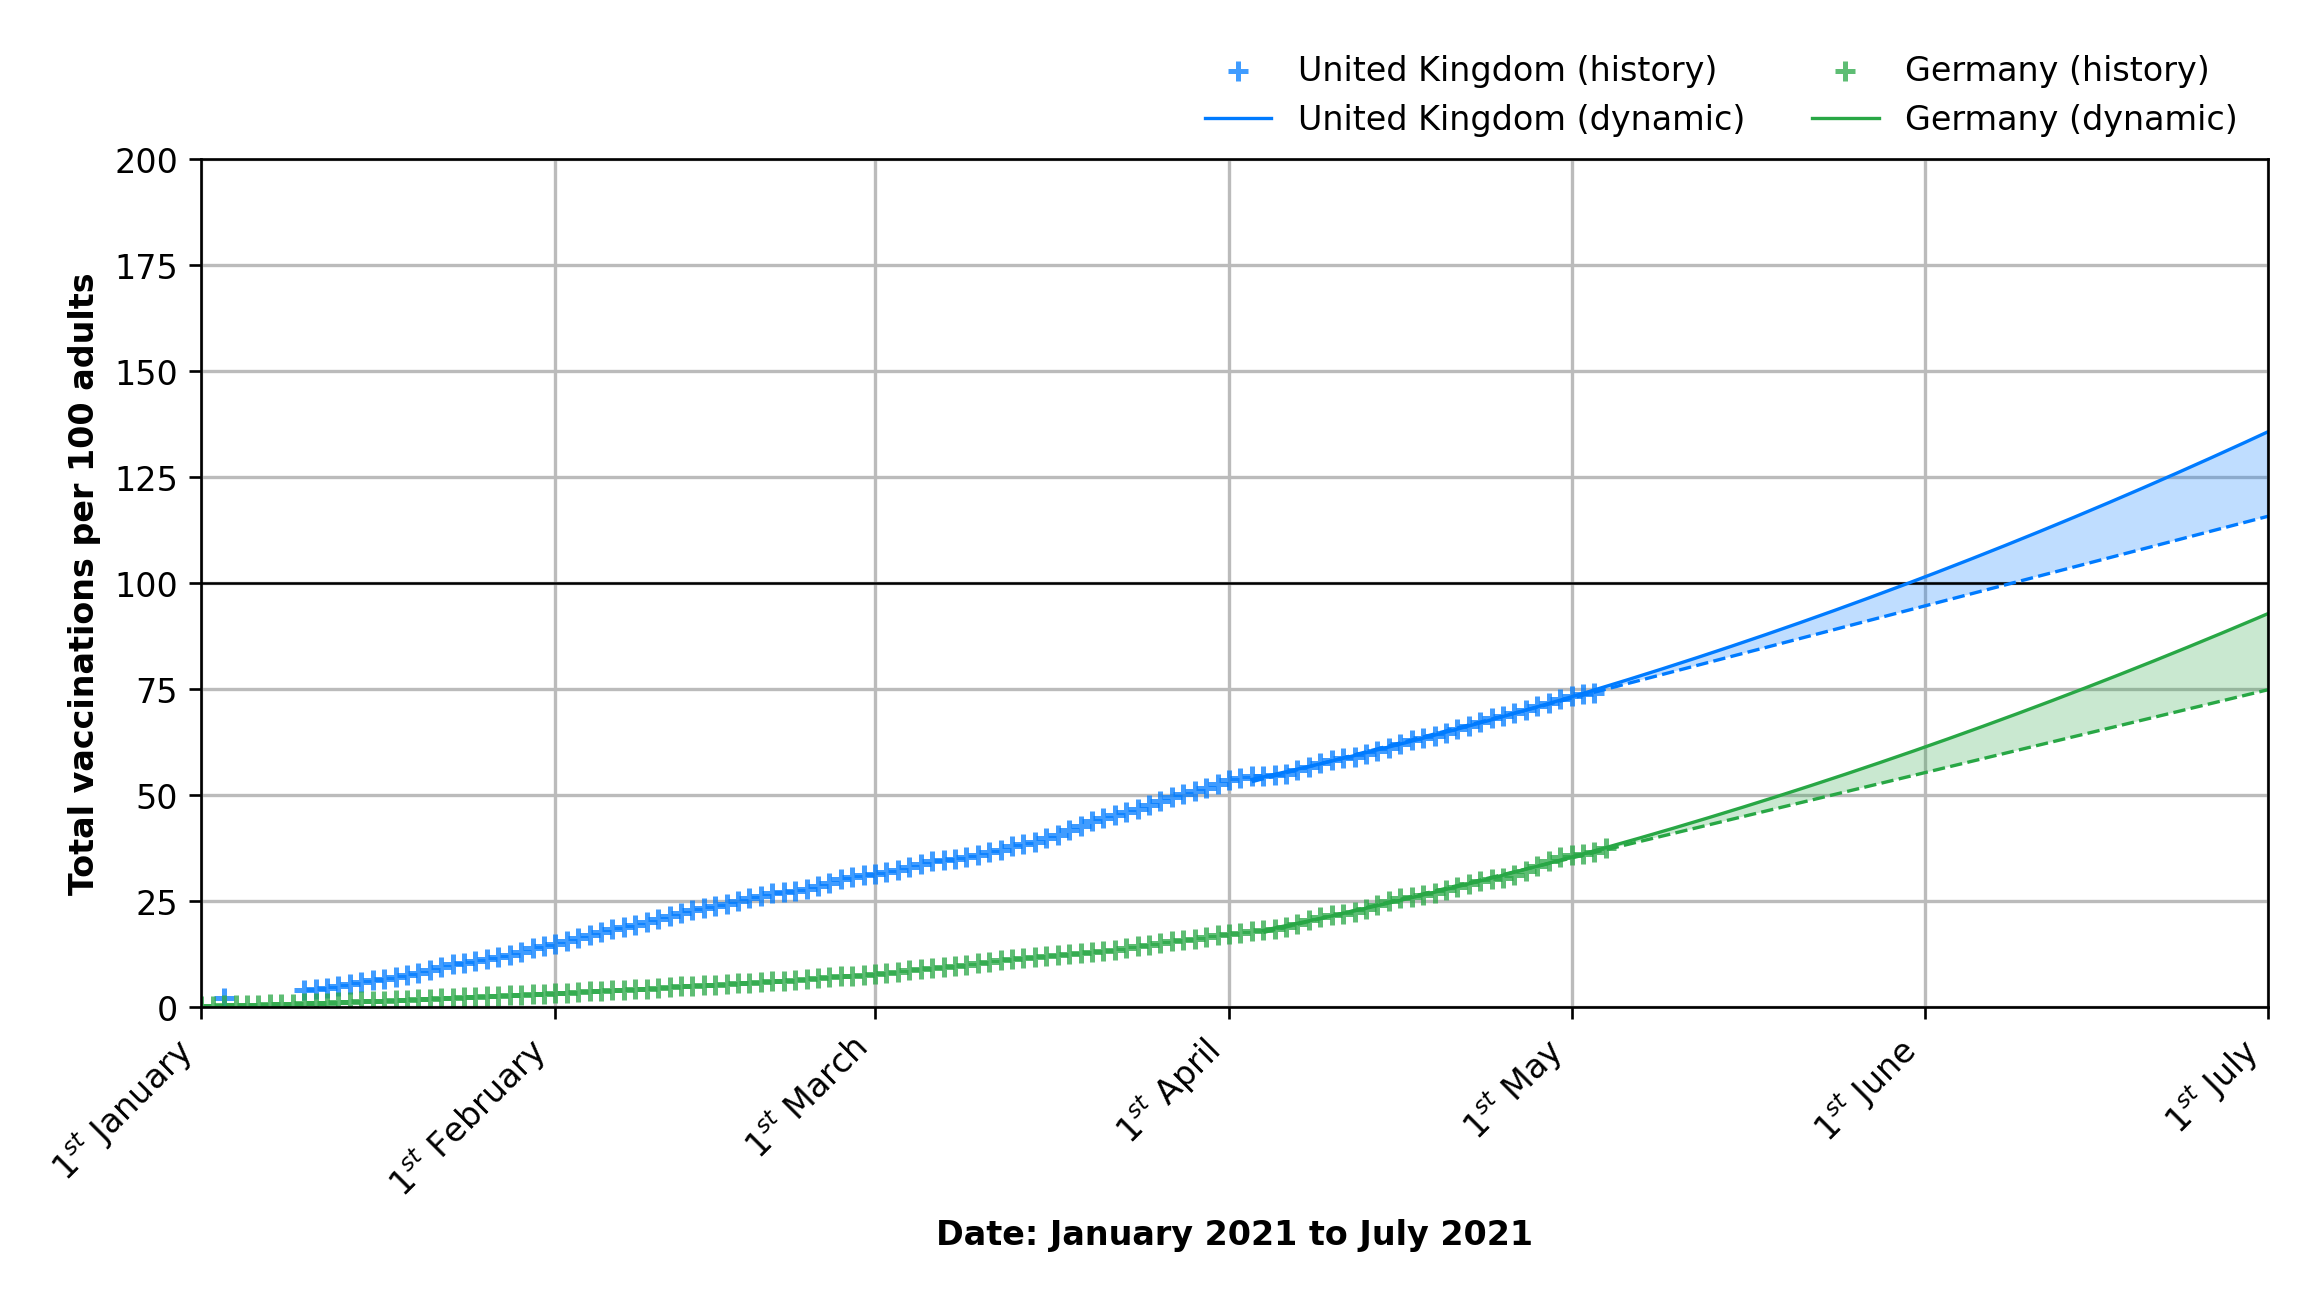
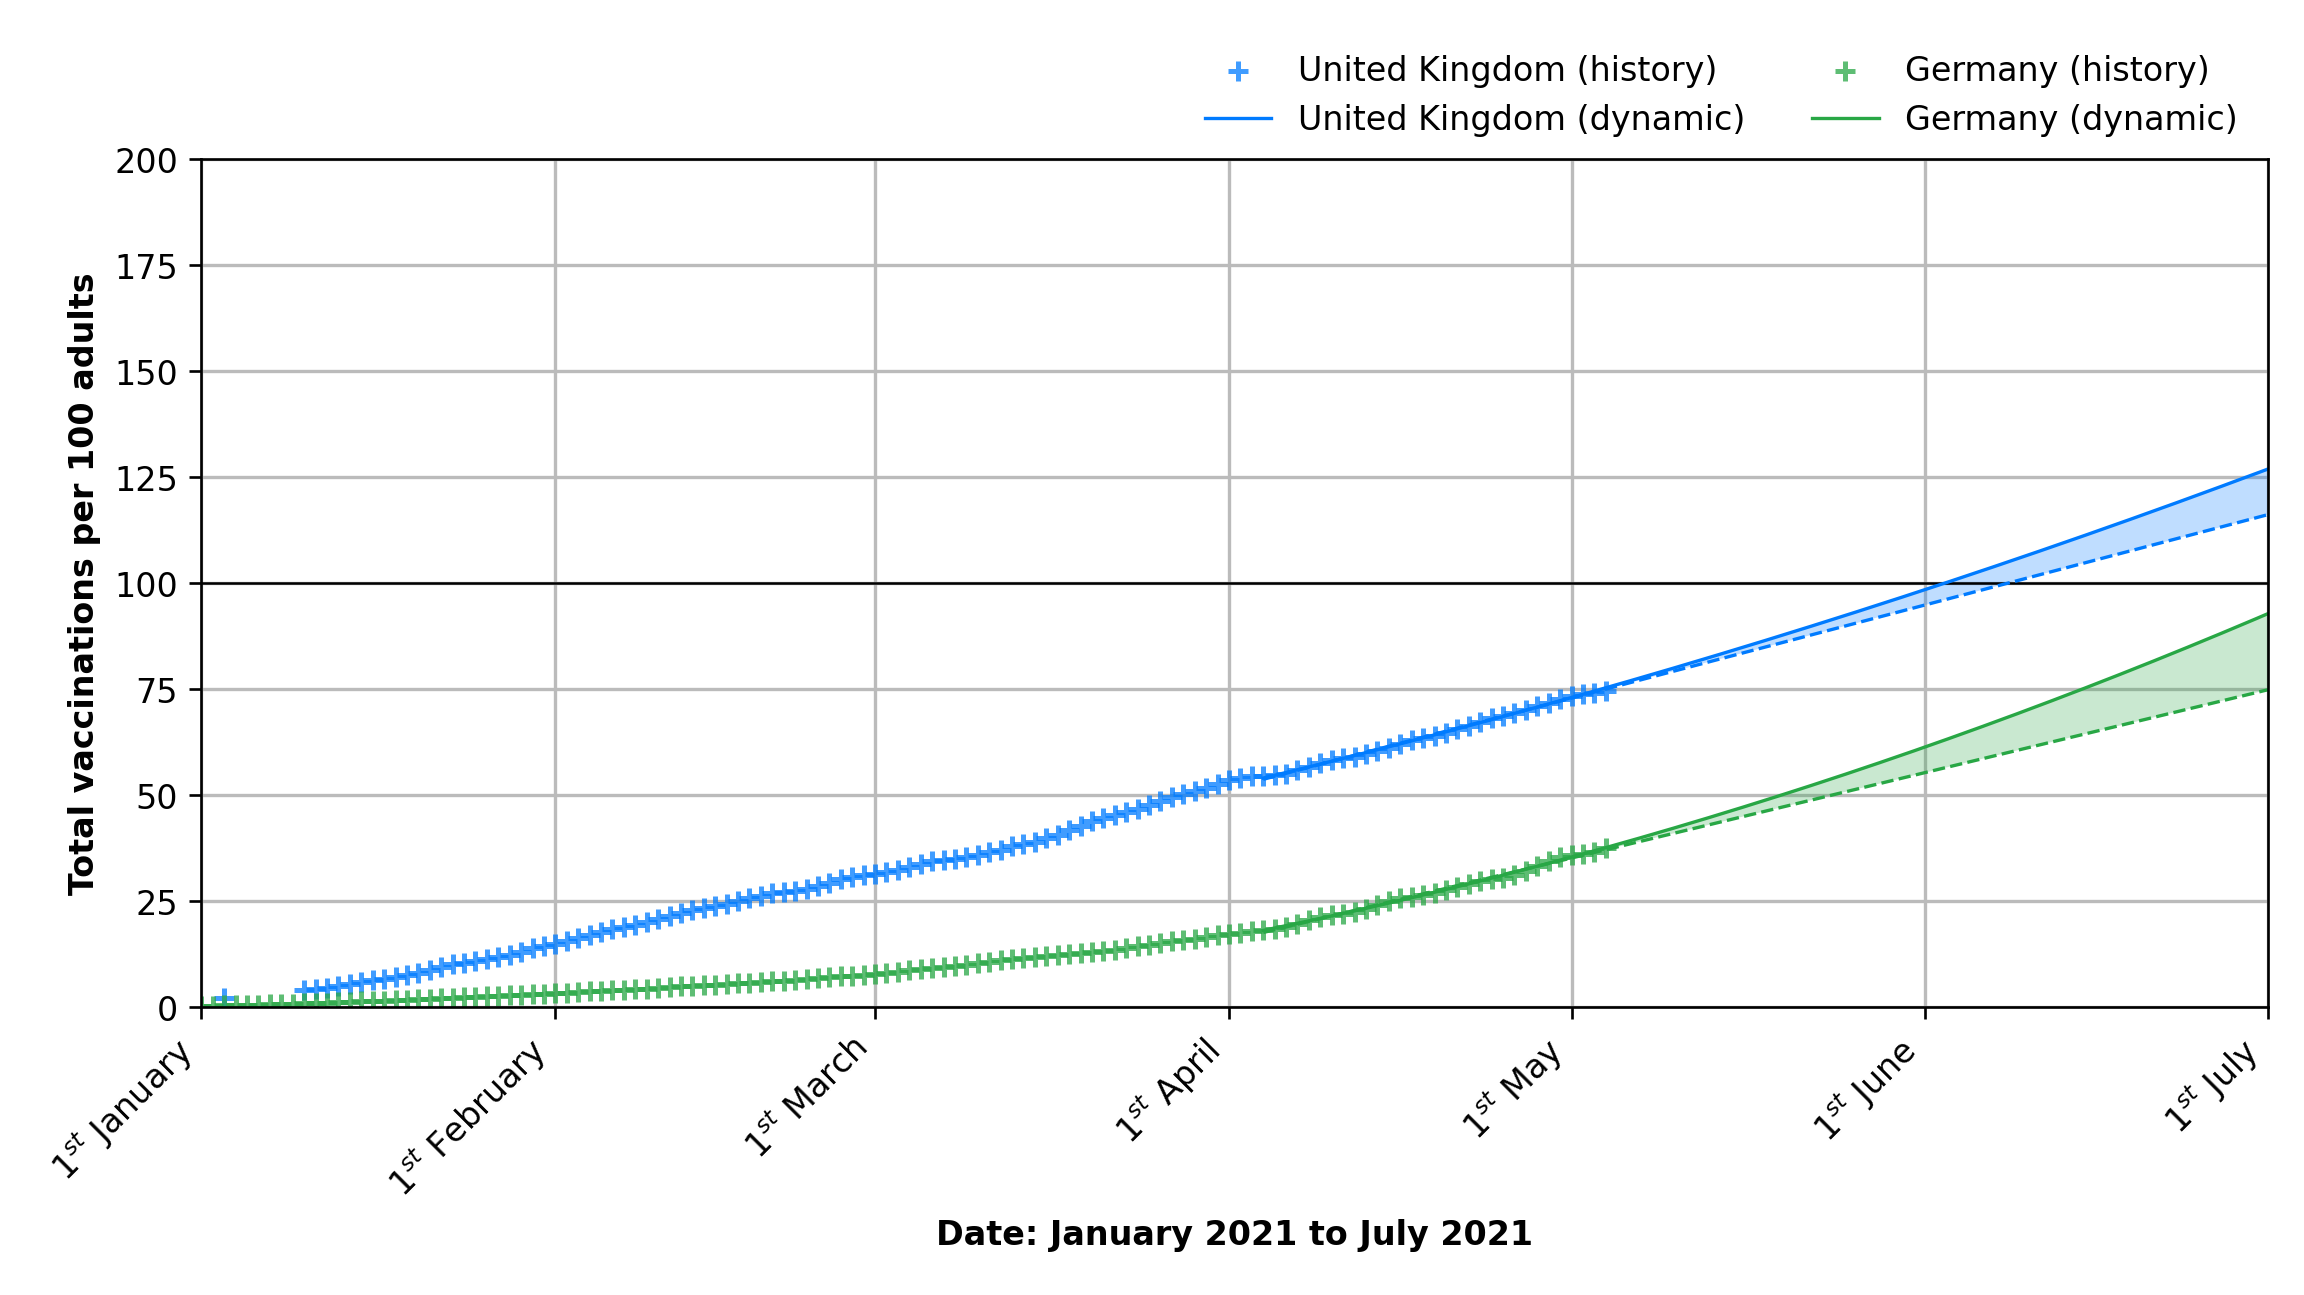
Deploying to gh-pages from @ lambdapioneer/vactrend@0b151e50bae144ff27c39ffb07cd62d871ed93a9 🚀

Changed region(s): [[0.7188, 0.3398, 1.0, 0.5251], [0.6875, 0.5251, 0.7188, 0.556]]

diff --git a/index.html b/index.html
@@ -23,7 +23,7 @@
                     The linear case assumes that the rate of vaccination remains the same.
                 </p>
                 <p class="text-muted">The data is sourced from the <a href="https://ourworldindata.org/">Our World in
-                        Data</a> project. Last update: 05 May 2021.</p>
+                        Data</a> project. Last update: 06 May 2021.</p>
             </div>
         </div>
         <a href="vactrend.png">
@@ -37,13 +37,13 @@
                 <div class="card">
                     <div class="card-header">🇬🇧 United Kingdom</div>
                     <div class="card-body">
-                        <h3 class="font-weight-bold" style="color: #007bff">74.09 <small>(+0.31/d)</small></h3>
+                        <h3 class="font-weight-bold" style="color: #007bff">74.66 <small>(+0.57/d)</small></h3>
                         <p class="mt-n2">Vaccinations per 100 adults</p>
-                        <h3 class=" font-weight-bold">31 May 2021</h3>
+                        <h3 class=" font-weight-bold">03 June 2021</h3>
                         <p class="mt-n2">Earliest day: 100 vacc. per 100 adults</p>
-                        <h3 class=" font-weight-bold">16 August 2021</h3>
+                        <h3 class=" font-weight-bold">04 September 2021</h3>
                         <p class="mt-n2">Earliest day: 200 vacc. per 100 adults</p>
-                        <p class="card-text"><small class="text-muted">Last data from 03 May 2021.</small></p>
+                        <p class="card-text"><small class="text-muted">Last data from 04 May 2021.</small></p>
                     </div>
                 </div>
             </div>
